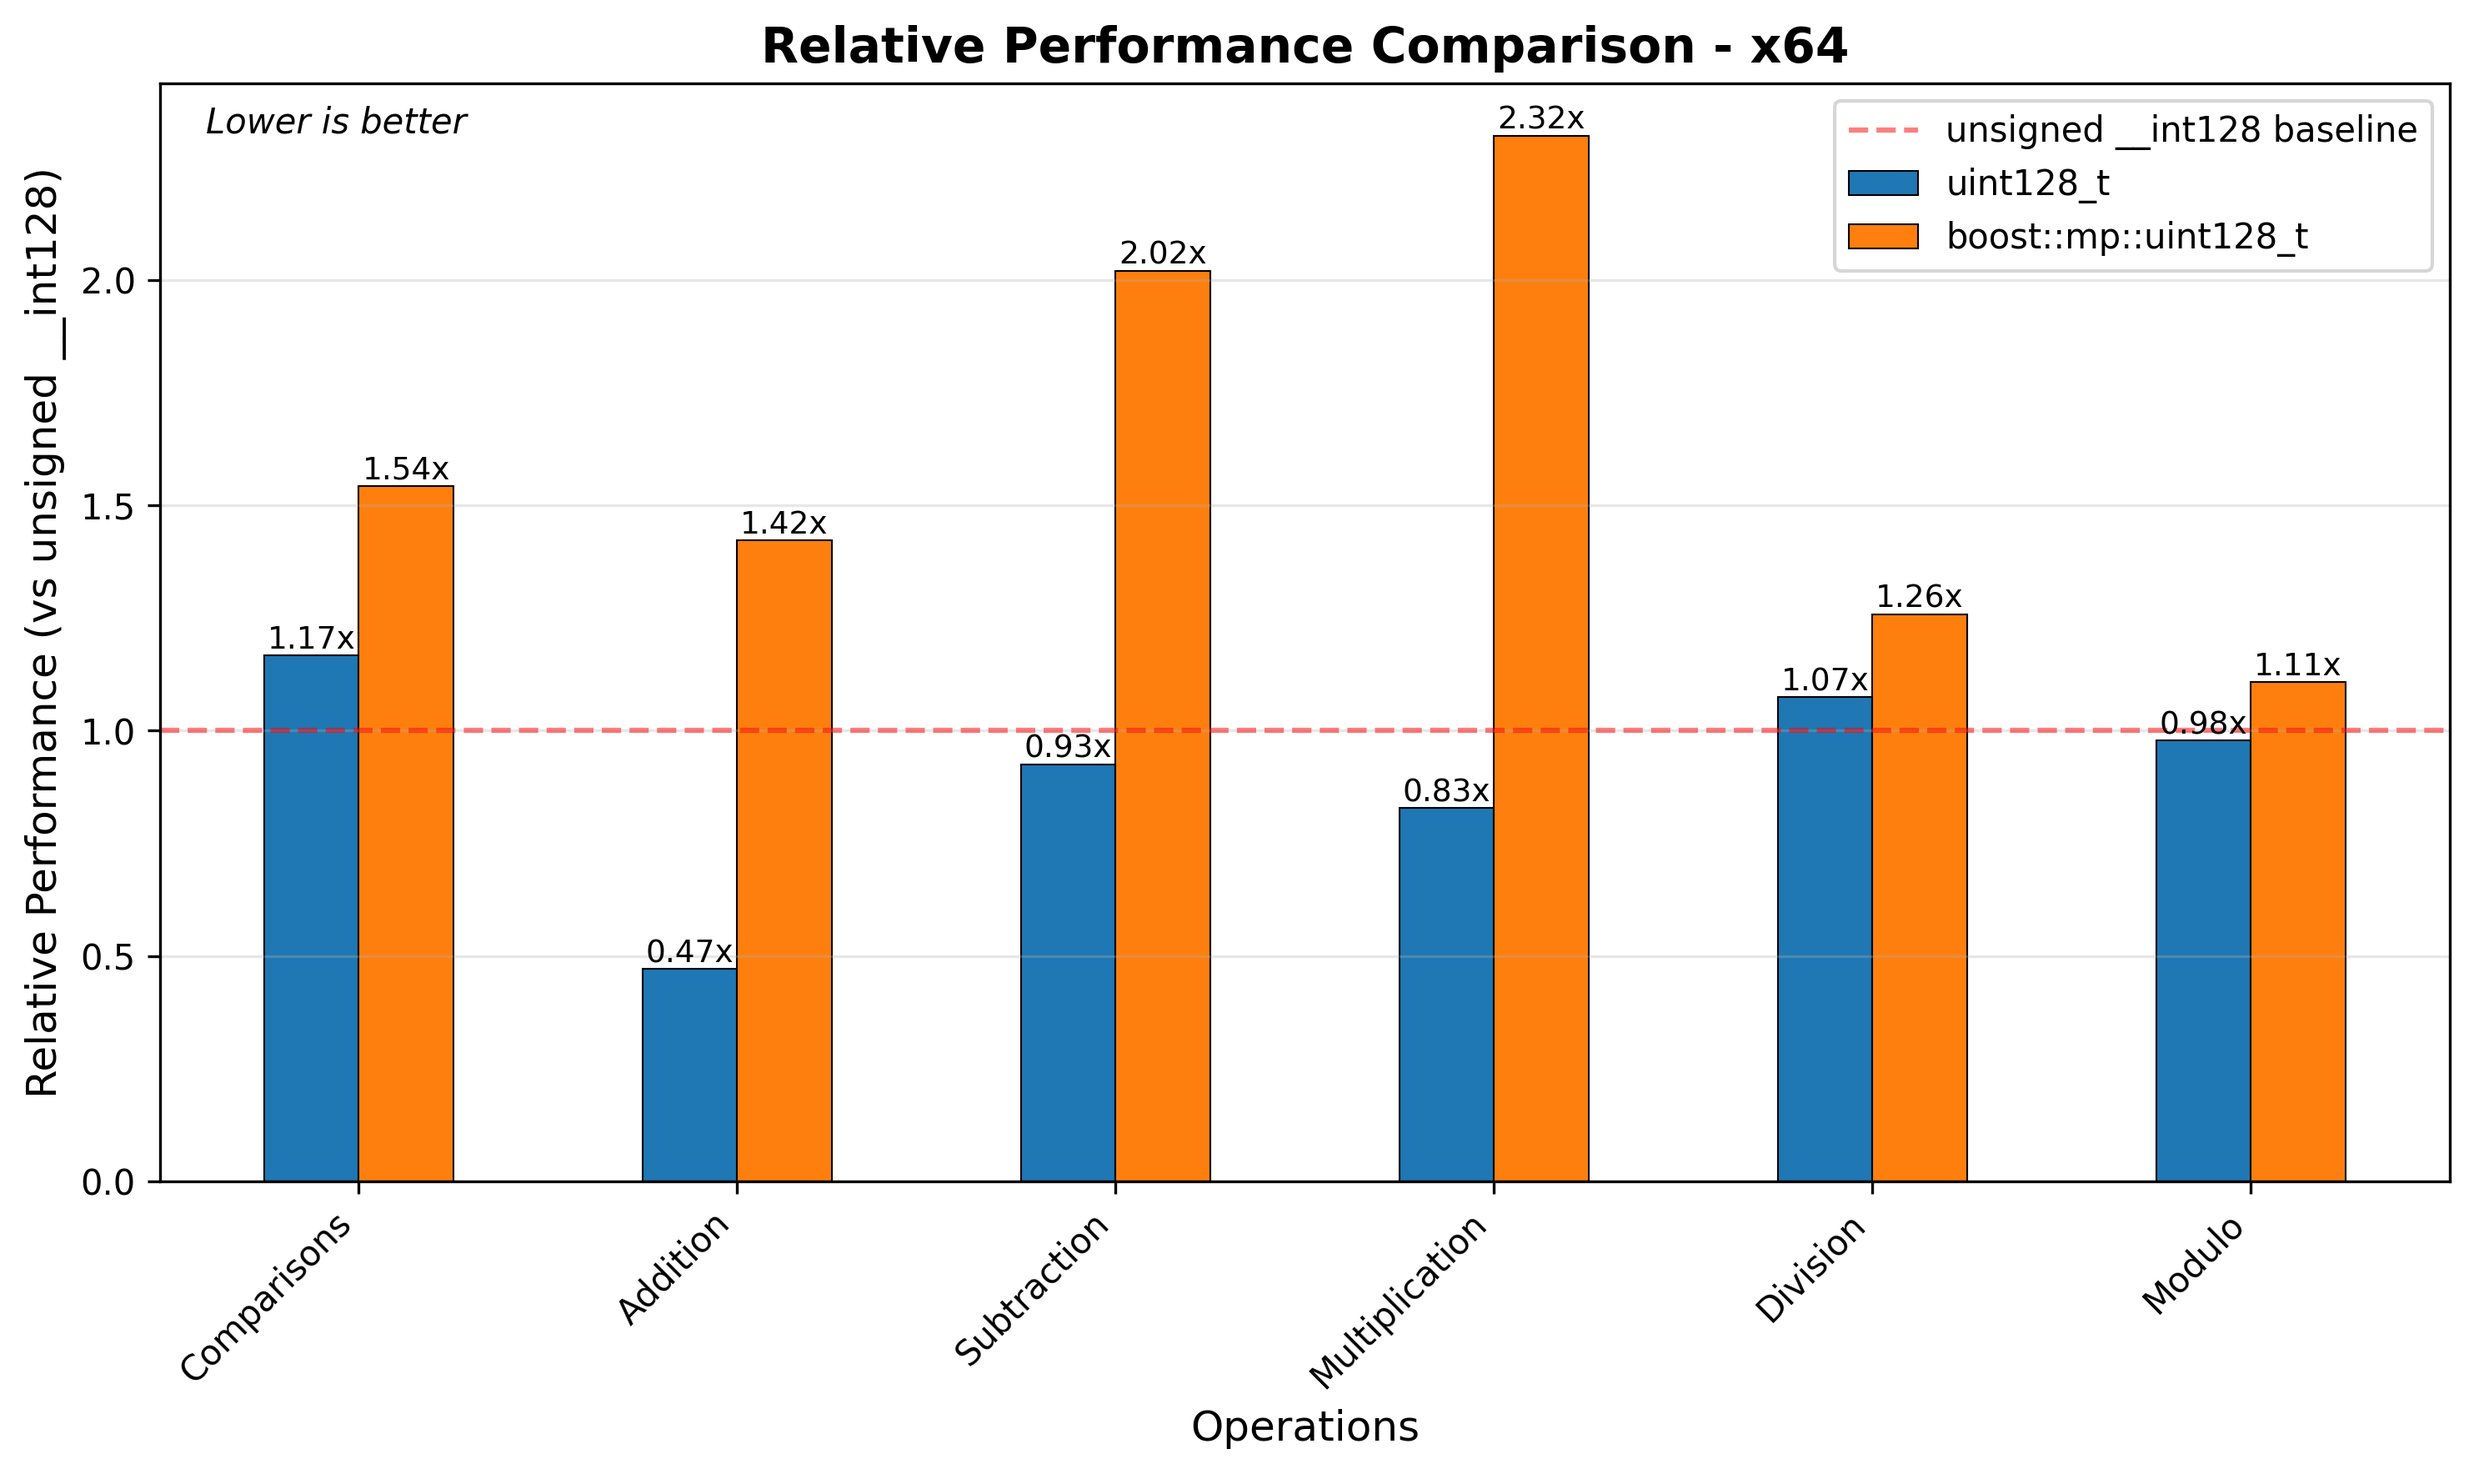
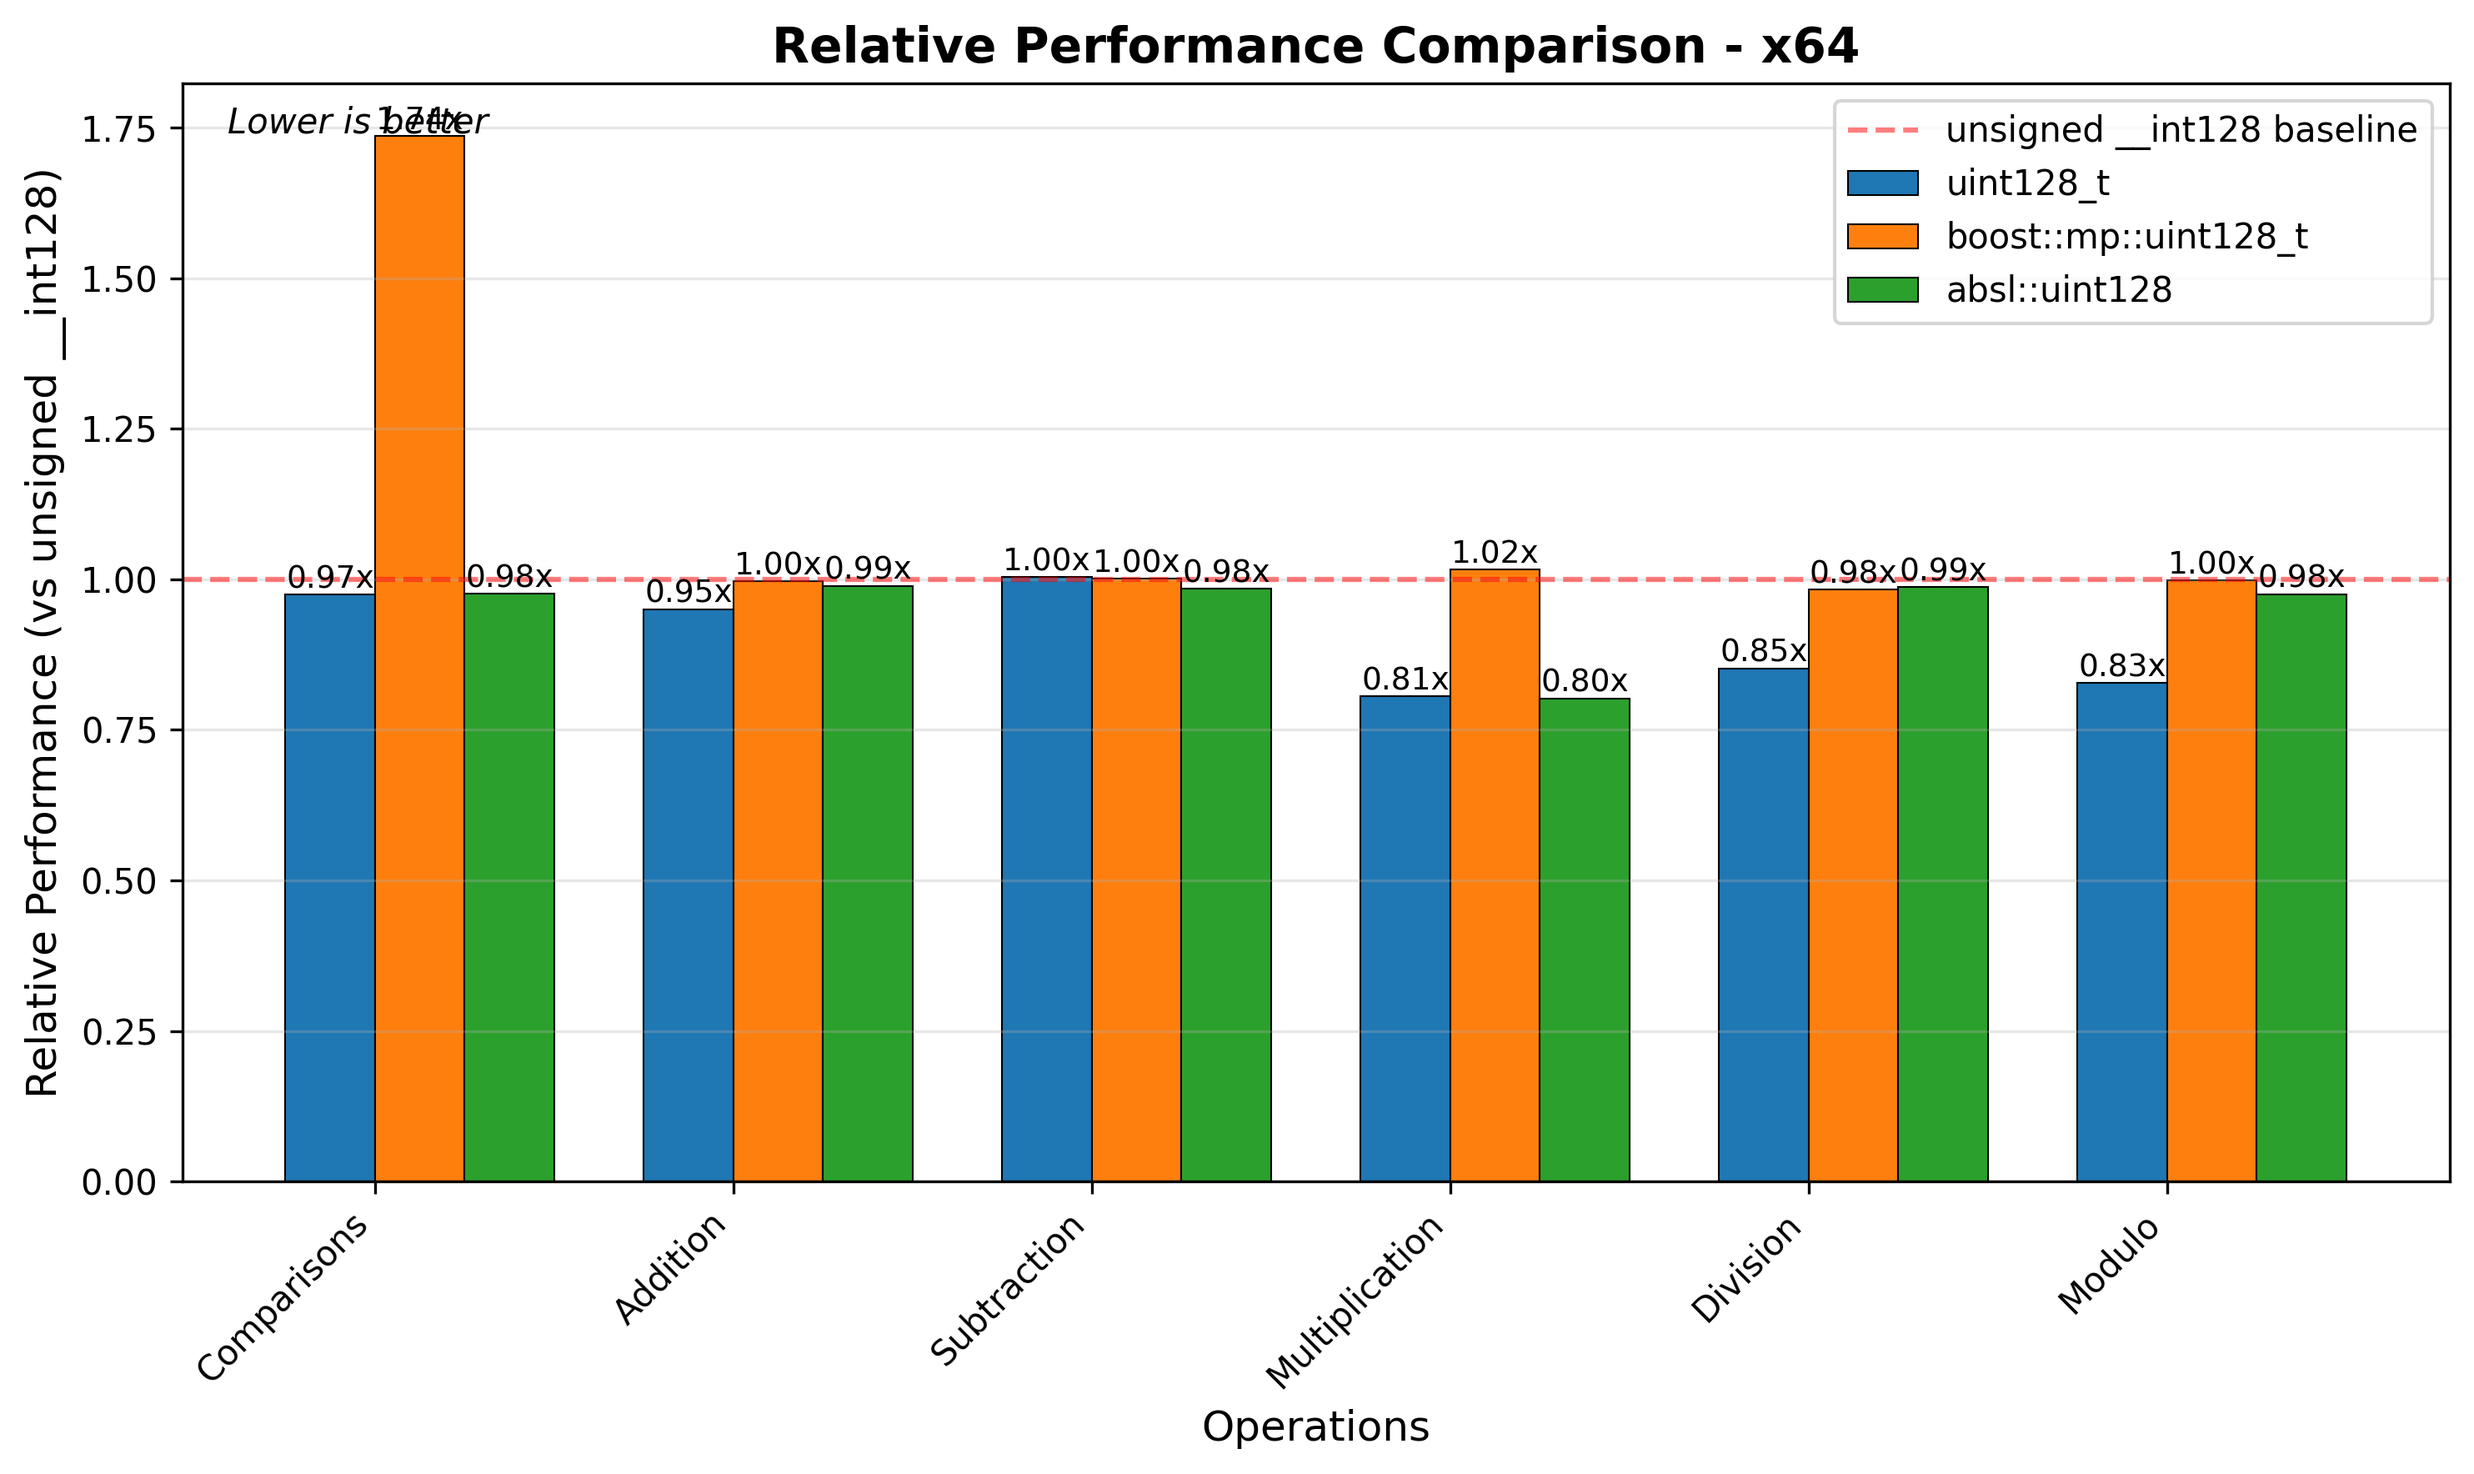
Update linux x64 performance data

diff --git a/doc/plots.py b/doc/plots.py
@@ -50,15 +50,16 @@ data = {
     'boost::mp::uint128_t': [689146, 137819, 153484, 164100, 2784139, 2736682]
 }
 """
-"""
+
 # Linux x64
 data = {
     'Operation': ['Comparisons', 'Addition', 'Subtraction', 'Multiplication', 'Division', 'Modulo'],
-    'unsigned __int128': [2068491, 383258, 208155, 291075, 3953939, 4042166],
-    'uint128_t': [2416378, 180522, 192633, 241174, 4246753, 3953441],
-    'boost::mp::uint128_t': [3191439, 545521, 420573, 675361, 4976285, 4478923]
+    'unsigned __int128': [785130, 90260, 91143, 111803, 1058435, 1003366],
+    'uint128_t': [765065, 85758, 91449, 90069, 901516, 830830],
+    'boost::mp::uint128_t': [1363581, 89958, 91224, 113559, 1040071, 1001701],
+    'absl::uint128': [766205, 89255, 89716, 89660, 1044710, 978533]
 }
-"""
+
 """
 # Linux ARM64
 data = {
@@ -69,7 +70,7 @@ data = {
     'absl::uint128': [3753922, 194070, 140777, 244420, 2223032, 2186750]
 }
 """
-
+"""
 # Linux S390x
 data = {
     'Operation': ['Comparisons', 'Addition', 'Subtraction', 'Multiplication', 'Division', 'Modulo'],
@@ -78,7 +79,7 @@ data = {
     'boost::mp::uint128_t': [7965082, 621572, 691515, 944289, 3997037, 5144403],
     'absl::uint128': [10515929, 1744226, 1527622, 1839038, 4913142, 5422155]
 }
-
+"""
 """
 # Linux ppc64le
 data = {
@@ -125,7 +126,7 @@ for i, (idx, row) in enumerate(df.iterrows()):
 
 ax1.set_xlabel('Operations', fontsize=12)
 ax1.set_ylabel('Time (nanoseconds)', fontsize=12)
-ax1.set_title('GCC 13 - S390x Benchmark Results', fontsize=14, fontweight='bold')
+ax1.set_title('GCC 14 - x64 Benchmark Results', fontsize=14, fontweight='bold')
 ax1.set_xticks(x)
 ax1.set_xticklabels(operations, rotation=45, ha='right')
 ax1.legend(loc='upper left')
@@ -154,7 +155,7 @@ for i, impl in enumerate(implementations):
 
 ax2.set_xlabel('Operations', fontsize=12)
 ax2.set_ylabel('Time (nanoseconds) - Log Scale', fontsize=12)
-ax2.set_title('GCC 13 - S390x Benchmark Results (Log Scale)', fontsize=14, fontweight='bold')
+ax2.set_title('GCC 14 - x64 Benchmark Results (Log Scale)', fontsize=14, fontweight='bold')
 ax2.set_yscale('log')
 ax2.set_xticks(x)
 ax2.set_xticklabels(operations, rotation=45, ha='right')
@@ -162,7 +163,7 @@ ax2.legend(loc='upper left')
 ax2.grid(axis='y', alpha=0.3, which='both')
 
 plt.tight_layout()
-plt.savefig('s390x_benchmarks.png', dpi=300, bbox_inches='tight')
+plt.savefig('x64_benchmarks.png', dpi=300, bbox_inches='tight')
 plt.show()
 
 # Create a normalized performance chart
@@ -191,7 +192,7 @@ ax3.axhline(y=1.0, color='red', linestyle='--', alpha=0.5, label='unsigned __int
 
 ax3.set_xlabel('Operations', fontsize=12)
 ax3.set_ylabel('Relative Performance (vs unsigned __int128)', fontsize=12)
-ax3.set_title('Relative Performance Comparison - s390x', fontsize=14, fontweight='bold')
+ax3.set_title('Relative Performance Comparison - x64', fontsize=14, fontweight='bold')
 ax3.set_xticks(x)
 ax3.set_xticklabels(operations, rotation=45, ha='right')
 ax3.legend()
@@ -202,7 +203,7 @@ ax3.text(0.02, 0.98, 'Lower is better', transform=ax3.transAxes,
          fontsize=10, verticalalignment='top', style='italic')
 
 plt.tight_layout()
-plt.savefig('s390x_relative_performance.png', dpi=300, bbox_inches='tight')
+plt.savefig('x64_relative_performance.png', dpi=300, bbox_inches='tight')
 plt.show()
 
 # Generate summary statistics
